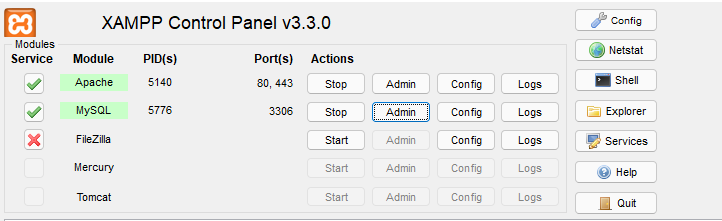
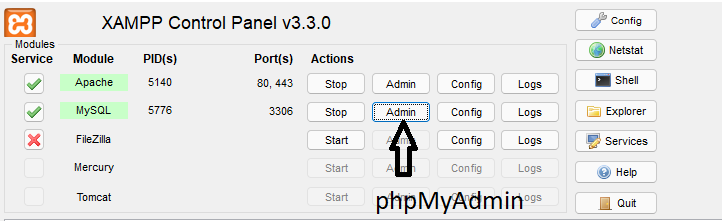
appPHP

Changed region(s): [[0.518, 0.8688, 0.7313, 0.9774], [0.518, 0.543, 0.5789, 0.8145]]

diff --git a/README.md b/README.md
@@ -80,16 +80,16 @@ La directory app contiene il codice principale dell'applicazione
 
 <h4>Directory bootsrap</h4>
 <p>
-  La directory bootstrap contiene il file app.php che esegue il bootstrap del framework. Questa directory ospita anche una directory cache  che contiene i file generati dal framework per l'ottimizzazione delle prestazioni come i file della cache di route e servizi.
+  La directory bootstrap contiene il file app.php che esegue il bootstrap del framework. Questa directory ospita anche una directory cache  che contiene i file generati dal      framework per l'ottimizzazione delle prestazioni come i file della cache di route e servizi.
 </p>
 <h4>Directory config</h4>
  <p>La directory config, contiene tutti i file di configurazione dell'applicazione.</p>
 <h4>Directory database</h4>
- <p>La directory database contiene la folder migrations nella quale sono ospitate i file di migrazione, le cartelle factories e seeders.</p>
+ <p>La directory database contiene la folder migrations nella quale sono ospitate i file di migrazione, la cartella factories e seeders.</p>
 <h4>Directory public</h4>
- <p>La directory public contiene il index.php file, che è il punto di ingresso per tutte le richieste che entrano nell'applicazione e configura il caricamento automatico. Questa directory ospita anche le tue risorse come immagini, JavaScript e CSS.</p>
+ <p>La directory public contiene il file index.php, che è il punto di ingresso per tutte le richieste che entrano nell'applicazione e configura il caricamento automatico. Questa directory ospita anche le tue risorse come immagini, JavaScript e CSS.</p>
 <h4>Directory resource</h4>
-La directory resources contiene la cartella view nella quale abbiamo le view.
+La directory resources contiene la cartella view nella quale abbiamo le view dell'app.
 <h4>Directory routes</h4>
 Il file web.php contiene i percorsi che RouteServiceProvider inserisce nel gruppo del middleware Web, che fornisce lo stato della sessione, la protezione CSRF e la crittografia dei cookie.
 <h4>Directory storage</h4>
@@ -117,41 +117,61 @@ Il file web.php contiene i percorsi che RouteServiceProvider inserisce nel grupp
 
 ### Funzionalità dell'applicazione
 - L'applicazione è costituita da tre view:
-  - Schermata Home visualizza il giorno corrente con il relativo conferimento giornaliero e fascia oraria di     ritiro.
+  - Schermata Home visualizza il giorno corrente con il relativo conferimento giornaliero e fascia oraria di ritiro.
+      
   ![](img-README/img1.png)
+      
   - Con la view "CREA CALENDARIO" si puà creare un calendario settimanale.
     Con il pulsante "Aggiungi Riga " si può aggiungere più ritiri per ogni giorno.
+      
     ![](img-README/img2.png)
+      
   - View "Calendario settimanale"
+      
     ![](img-README/img3.png)
+      
 ### Download e testare app in locale
 
 - Sul proprio dispositivo è necessario installare: 
    - un ambiente di lavoro sul proprio computer per poter eseguire programmi PHP.
-     Durante lo sviluppo di questa applicazione ho usato XAMPP è un ambiente di sviluppo web disponibile per Windows, Linux e Mac. Consente di creare applicazioni web con Apache, PHP e MySQL. 
+     Durante lo sviluppo di questa applicazione ho usato XAMPP è un ambiente di sviluppo web disponibile per Windows, Linux e Mac. Consente di creare applicazioni web con   Apache, PHP e MySQL. 
      (https://www.apachefriends.org/it/index.html)
+      
    - [Composer] gestore di pacchetti a livello applicativo per il linguaggio di programmazione PHP (https://getcomposer.org/download/) 
    
 - Scaricare il Repository: (https://github.com/Emanuele9326/calendarioRaccoltaDifferenziata)
    ![](img-README/img4.png)
+      
 - Sè si utilizza XAMPP come ambiente di sviluppo la cartella del repository appena scaricato deve essere posizionata " c:/xampp/htdocs" directory, inquanto per impostazione predefinita i file vengono serviti da tale directory.
+      
 - Aprire la cartella del repository attraverso il prompt dei comandi ed eseguire il comando "composer install".
 In questo modo si vanno in automatico ad installare tutte le dipendenze e le librerie di cui necessita l'applicazione.
+      
 - Dalla schermata di XAMPP avviare Apache e MySql.
+      
   ![](img-README/img5.png)
-- Sempre dall'interfaccia di XAMPP cliccare sul pulsante Admin. In questo modo si viene reindirizzati su phpAdmin
+      
+- Sempre dall'interfaccia di XAMPP cliccare sul pulsante Admin. In questo modo si viene reindirizzati su phpMyAdmin
 che consente di amministrare un database MySQL o MariaDB tramite un qualsiasi browser.
+      
 ![](img-README/img6.png)
+      
 - Attraverso phpAdmin creare un nuovo database.
+      
 - Cliccare su importa e caricare il file migration "app-php.sql" in questo modo si riproduce la struttura del database.
+      
  ![](img-README/img7.png)
-- Rinominare il file ".env.example" in ".env". 
-Aprire il file ".env" e reimpostare i valori di connessione al database .
+      
+- Rinominare il file ".env.example" in ".env".     
+  Aprire il file ".env" e reimpostare i valori di connessione al database .
+      
  ![](img-README/img8.png)
-- Ritornare al prompt dei comandi ed eseguire il comando: "php artisan key:generate".
-"php artisan key:generate" è un comando che imposta il valore APP_KEY nel tuo".env" file.
+      
+- Ritornare al prompt dei comandi ed eseguire il comando: "php artisan key:generate".<br>
+  "php artisan key:generate" è un comando che imposta il valore APP_KEY nel tuo".env" file.
+      
 - Ora si puo avviare l'app attraverso il comando: "php artisan serve" 
 Andare al seguente link: " http://127.0.0.1:8000"
-## License
-
+      
+## Licenza
 The Laravel framework is open-sourced software licensed under the [MIT license](https://opensource.org/licenses/MIT).
